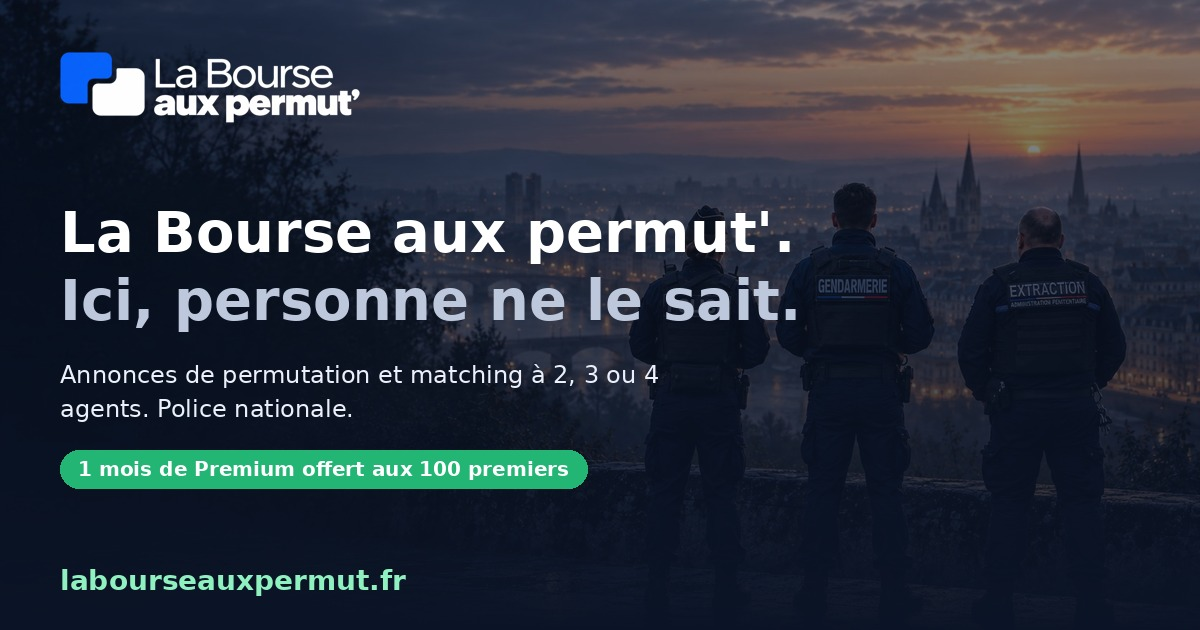
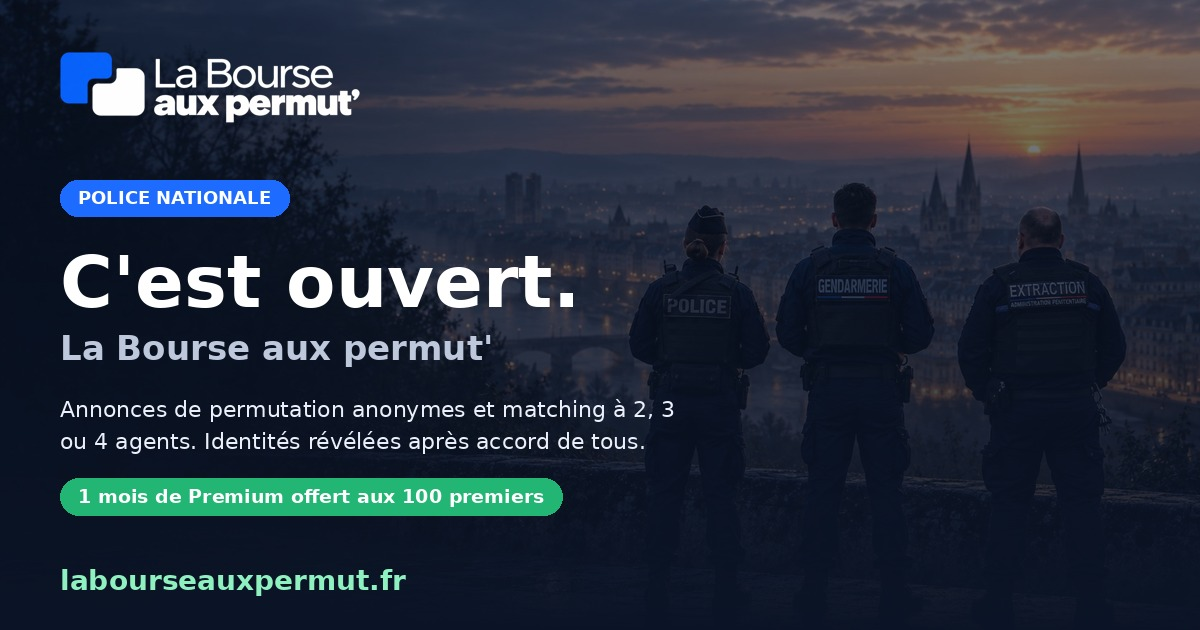
feat: miniature de partage C'est ouvert

Changed region(s): [[0.0308, 0.2714, 0.6783, 0.6635], [0.0308, 0.6937, 0.555, 0.8444]]

diff --git a/app/layout.tsx b/app/layout.tsx
@@ -5,7 +5,9 @@ export const metadata: Metadata = {
   title: 'La Bourse aux permut\'',
   description: 'Ici, personne ne le sait. Annonces de permutation et matching à 2, 3 ou 4 agents. Police nationale, gendarmerie et pénitentiaire à venir.',
   icons: { icon: [{ url: '/favicon.ico' }, { url: '/icon.png', type: 'image/png', sizes: '512x512' }], apple: '/icon.png' },
-  openGraph: { title: 'La Bourse aux permut\'', description: 'Ici, personne ne le sait. Annonces de permutation et matching entre collègues.', images: ['/og.jpg'], locale: 'fr_FR', type: 'website' },
+  metadataBase: new URL(process.env.NEXT_PUBLIC_SITE_URL || 'https://labourseauxpermut.fr'),
+  openGraph: { title: 'La Bourse aux permut\' · C\'est ouvert', description: 'Annonces de permutation anonymes et matching à 2, 3 ou 4 agents. Identités révélées après accord de tous. Police nationale.', url: '/', siteName: 'La Bourse aux permut\'', images: [{ url: '/og.jpg?v=2', width: 1200, height: 630, alt: 'La Bourse aux permut\', c\'est ouvert' }], locale: 'fr_FR', type: 'website' },
+  twitter: { card: 'summary_large_image', title: 'La Bourse aux permut\' · C\'est ouvert', description: 'Annonces de permutation anonymes et matching entre collègues.', images: ['/og.jpg?v=2'] },
 };
 export const viewport: Viewport = { width: 'device-width', initialScale: 1, viewportFit: 'cover', themeColor: '#EEF2F8' };
 
